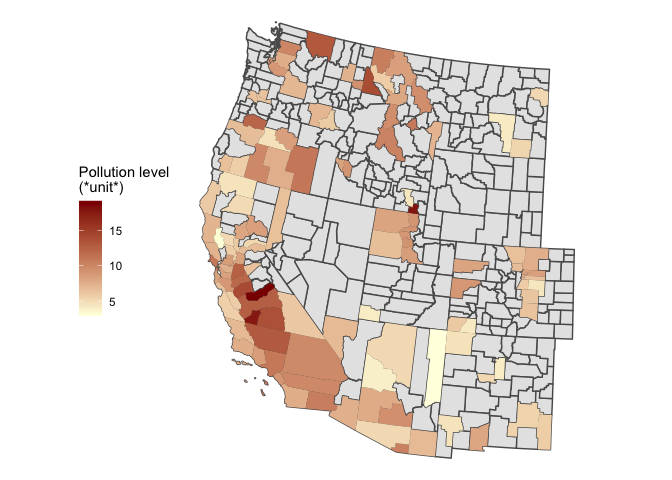
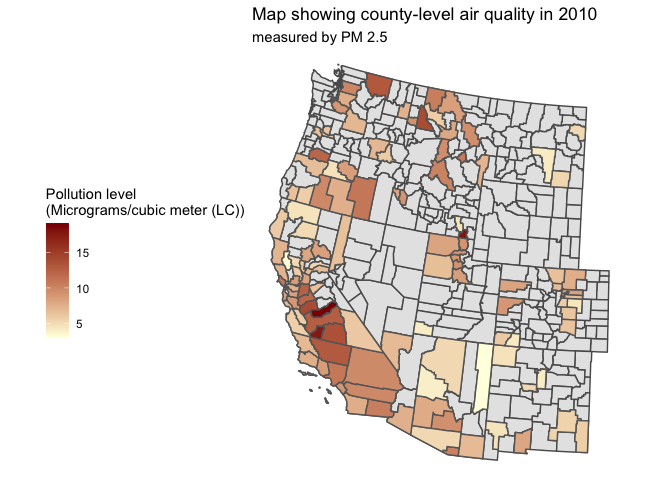
put more words on shiny

diff --git a/write-up/Writeup.md b/write-up/Writeup.md
@@ -29,15 +29,15 @@ the next time increment of data, quarterly, but that too proved
 time-intensive, and so we ultimately decided to use yearly increments.
 In addition, due to the sheer amount of data that we still had to load,
 we decided to focus our analysis on the 11 states which make up the
-‘Western’ region of the United States, a decision primarily informed by
+“Western” region of the United States, a decision primarily informed by
 the knowledge that this is the most wildfire-prone region in the United
 States ([Supporting data from
 Statista](https://www.statista.com/statistics/217072/number-of-fires-and-acres-burned-due-to-us-wildfires/)).
 Even taking all of these pragmatic decisions into account, each dataset
-that we loaded—a 10-year increment of yearly county-level data from one
-of the 11 states in our analysis—could be up to tens of thousands of
-rows, and so given our time constraint for this project, we believe that
-limiting our analysis was the correct choice.
+that we loaded — a 10-year increment of yearly county-level data from
+one of the 11 states in our analysis — could be up to tens of thousands
+of rows, and so given our time constraint for this project, we believe
+that limiting our analysis was the correct choice.
 
 After loading all of the data, we had to put it through numerous rounds
 of adjustment, filtering, merging, summarizing, pivoting, etc. in order
@@ -134,49 +134,55 @@ by our function.
 
 # Approach
 
-Justification of approach: The chosen approach and visualizations are
-clearly explained and justified. (3 points)
+In order to explore air quality, we created a shiny app containing
+choropleth maps and line plots. Our app contains 4 main tabs containing
+different information on air pollution. We chose to make a shiny app
+because it allows us to not only present, but also interact with the
+visualizations by selecting features such as pollutant type, year, and
+state.
+
+We used the sidebar layout so that we can select pollutant type in the
+sidebar and click on tabs on the main panel to see different plots. We
+put pollutant on the side rather than under each tab because it is a
+common variable for both the map (1st tab) and the line plot (3rd tab).
+We included different types of pollutants because each pollutant might
+indicate a different reason for or consequence of the corresponding air
+pollution level. Including them will better inform expert users about
+air quality. We also included the AQI plots, because this will allow us
+to better communicate the overall air quality to laypeople without
+getting into too much details in pollutant types.
+
+The 1st and 2nd tabs contain a choropleth map of western US states and
+counties which allows users to compare air quality across space. The 1st
+tab filled by selected pollutants, and the 2nd tab filled by AQI levels.
+The slider allows users to select a specific year or animate across
+years. The maps show the county-level choropleth of pollution levels in
+the selected year accordingly.
+
+The 3rd and 4th tabs contain a line plot of air quality against year
+which allows users to explore change of air quality across time and to
+compare air quality trends across states. The 3rd tab has pollutant
+levels on the y-axis as the air quality measure, and the 4th tab has AQI
+on the y-axis as the air quality measure. The selectize input allows
+users to select up to 8 out of the 11 states, while preventing them from
+mispelling or inputing states that were not in our data. The limit of 8
+states is for clarity of graphing. We don’t want to cram the graph with
+too many lines, which hinders our ability of interpretation. The
+resulting line graphs show the trend of air pollution levels of the
+selected states across years.
+
+The 5th tab contains a table showing our data. It has a search box on
+the top, allowing users to type in any year, county, state, pollutant,
+etc. values if they want to check on the data containing the typed value
+only.
 
 # Code & Visualizations
 
+The shiny app can be accessed using [this
+link](https://hanjimin06.shinyapps.io/furredflies/).
+
 Below are the sample graphs of placeholder year 2010 and placeholder
 pollutant PM2.5.
-
-``` r
-state_choices <- c("Arizona", "California", "Colorado", "Idaho", "Montana",
-                   "Nevada", "New Mexico", "Oregon", "Utah", "Washington", "Wyoming")
-
-# summarize air quality by state
-air_quality_state <- air_quality %>%
-  group_by(year, state, pollutant, units_of_measure) %>%
-  summarize(air_qual_year = mean(arithmetic_mean, na.rm = TRUE))
-
-# summarize aqi by state
-aqi_state <- air_quality %>%
-  group_by(year, state) %>%
-  summarize(mean_aqi = mean(AQI, na.rm = TRUE))
-
-# summarize aqi by county
-aqi_county <- air_quality %>%
-  group_by(year, state, county, fips) %>%
-  summarize(mean_aqi = mean(AQI, na.rm = TRUE)) %>%
-  unique()
-
-# import sf for the county-level map
-counties_sf <- get_urbn_map(map = "counties", sf = TRUE)
-# only needed if plotting state-level map:
-states_sf <- get_urbn_map(map = "states", sf = TRUE)
-
-# merge air quality data and sf using fips code
-counties_air <- left_join(counties_sf, air_quality,
-                           by = c("county_fips" = "fips"))
-
-counties_aqi <- left_join(counties_sf, aqi_county,
-                          by = c("county_fips" = "fips"))
-
-# extract sf info for Western US states only
-WEST.SF <- counties_sf %>% filter(state_name %in% state_choices)
-```
 
 Here is the map of PM2.5 data in 2010.
 
@@ -185,15 +191,15 @@ counties_air %>%
   filter(year == 2010 & pollutant == "PM2.5") %>%
   ggplot() +
   geom_sf(data = WEST.SF) +
-  geom_sf(mapping = aes(fill = arithmetic_mean), color = NA) +
+  geom_sf(mapping = aes(fill = arithmetic_mean), color = "grey40") +
   coord_sf(datum = NA) +
-  scale_fill_gradient(name = paste0("Pollution level \n(*unit*)"),
+  scale_fill_gradient(name = paste0("Pollution level \n(Micrograms/cubic meter (LC))"),
                       low = "lightyellow", high = "darkred",
                       na.value = "white") +
   theme_void() +
-  theme(plot.title = element_text("Map showing county-level
-                                         air quality measured by PM 2.5"),
-        legend.position = "left")
+  labs(title = "Map showing county-level air quality in 2010",
+       subtitle = "measured by PM 2.5") +
+  theme(legend.position = "left")
 ```
 
 ![](writeup_files/figure-gfm/tab1-1.png)<!-- -->
@@ -205,11 +211,11 @@ Here is the AQI map in 2010.
 cols <- c("Good" = "green", "Moderate" = "yellow", "Unhealthy for Sensitive Groups" = "orange",
           "Unhealthy" = "red", "Very Unhealthy" = "purple", "Hazardous" = "maroon")
 
-counties_air %>%
+counties_aqi %>%
   filter(year == 2010) %>%
   ggplot() +
   geom_sf(data = WEST.SF) +
-  geom_sf(mapping = aes(fill = air_quality_index), color = NA) +
+  geom_sf(mapping = aes(fill = air_quality_index), color = "grey40") +
   scale_fill_manual(values = cols) +
   coord_sf(datum = NA) +
   labs(title = "Map showing county-level air quality measured by AQI",
@@ -229,9 +235,9 @@ air_quality_state %>%
   ggplot(aes(year, air_qual_year, color = state)) +
   geom_line() +
   theme_light() +
-  labs(title = paste0("Air Quality Across Years in", paste0(input_state, collapse = ", ")),
+  labs(title = paste0("Air Quality Across Years in ", paste0(input_state, collapse = ", ")),
        subtitle = paste0("measured by PM2.5"),
-       x = "Year", y = paste0("Polution level (*unit*)"),
+       x = "Year", y = "Polution level (Micrograms/cubic meter (LC))",
        color = "State")
 ```
 
@@ -255,49 +261,42 @@ aqi_state %>%
 
 # Discussion
 
-Our project contains 4 main tabs containing different information on air
-pollution.
-
 ## Map & Line Plot
 
-In this tab, we study the choropleth map of the US west coast states for
-1971-2021, on various air pollutants. One caveat is that we lack a great
-deal of data from the 70s, especially for more rural counties. NO2 and
-Ozone are almost restrained to data from California in the 70s, while
-the PM measures were not collected in this dataset. But looking at the
-maps in general, we can see that the reported counties generally have
-high levels of pollutant concentration.
+In the 1st tab, we study the choropleth map of the US west coast states
+for 1971-2021, on various air pollutants. One caveat is that we lack a
+great deal of data from the 70s, especially for more rural counties. NO2
+and Ozone are almost restrained to data from California in the 70s,
+while the PM measures were not collected in this dataset. But looking at
+the maps in general, we can see that the reported counties generally
+have high levels of pollutant concentration.
 
-We can get a more holistic view of the trend if we look at the line plot
-tab. Most notably, we can see that SO2, NO2, and CO have a similar trend
-in which the values for the 70s are extremely high and they converge to
-a lower level as we approach the 21st century. We hypothesize that this
-trend may be caused from the sheer lack of volume of data in the 70s
-(Most likely), and also that the decreasing trend represents an adapting
-mechanism for the counties after the policy enactment in 1970. PM10,
-although collected from the mid-1980s, have a similar downward trend. On
-the other hand, PM 2.5 generally stays constant throughout the years
-except for an outlier in California. Ozone had a very unique trend in
-which all states experience a dip in ozone levels in the 1980s. More
-specifically, the levels fall from around 0.06 Parts per Million to less
-than 0.04, going back up to 0.06 at the beginning of the 90s. After the
-90s, we note a rather constant level of Ozone despite fluctuations in
-year-by-year level.
+We can get a more holistic view of the trend if we look at the 2nd tab
+containing the line plot. Most notably, we can see that SO2, NO2, and CO
+have a similar trend in which the values for the 70s are extremely high
+and they converge to a lower level as we approach the 21st century. We
+hypothesize that this trend may be caused from the sheer lack of volume
+of data in the 70s (Most likely), and also that the decreasing trend
+represents an adapting mechanism for the counties after the policy
+enactment in 1970. PM10, although collected from the mid-1980s, have a
+similar downward trend. On the other hand, PM2.5 generally stays
+constant throughout the years except for an outlier in California. Ozone
+had a very unique trend in which all states experience a dip in ozone
+levels in the 1980s. More specifically, the levels fall from around 0.06
+Parts per Million to less than 0.04, going back up to 0.06 at the
+beginning of the 90s. After the 90s, we note a rather constant level of
+Ozone despite fluctuations in year-by-year level.
 
 ## AQI Map & AQI Line Plot
 
-In these tabs, we provide a similar set of maps and line graphs for AQI,
-which is a more general and intuitive measure of pollution derived from
-the pollutants we presented before.
-
-In these tabs, we provide a similar set of maps and line graphs for AQI,
-which is a more general and intuitive measure of pollution derived from
-the pollutants we presented before. In the 1970s, where many of the
-values were fluctuating, we see a wide range of colors in the map. We
-see that amid mostly green(good) AQI levels, there are a mix of moderate
-and unhealthy levels near urban areas. However, beginning from 1980, the
-map turns almost completely yellow (moderate) and stays that way until
-2021.
+In the 3rd and 4th tabs respectively, we provide a similar set of maps
+and line graphs for AQI, which is a more general and intuitive measure
+of pollution derived from the pollutants we presented before. In the
+1970s, where many of the values were fluctuating, we see a wide range of
+colors in the map. We see that amid mostly green (good) AQI levels,
+there are a mix of moderate and unhealthy levels near urban areas.
+However, beginning from 1980, the map turns almost completely yellow
+(moderate) and stays that way until 2021.
 
 If we translate this trend to the AQI line plot, we can see that
 similarly yet much less extremely than our previous plots, the AQI level
